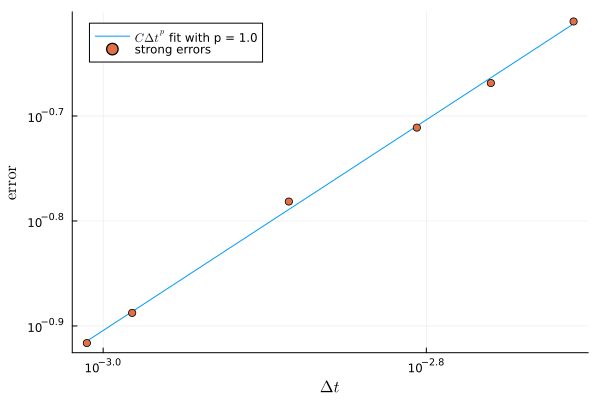
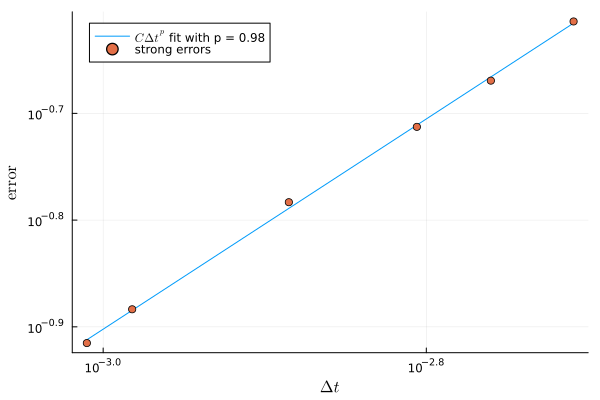
adjust parameters

diff --git a/docs/src/examples/09-fisherkpp.md b/docs/src/examples/09-fisherkpp.md
@@ -4,9 +4,9 @@ EditURL = "https://github.com/rmsrosa/rode_conv_em/docs/literate/examples/09-fis
 
 # Random Fisher-KPP partial differential equation
 
-Here we simulate a Fisher-KPP equation with random boundary conditions, as inspired by the works of [Salako & Shen (2020)](https://doi.org/10.1007/s10884-020-09847-2) and [Freidlin & Wentzell (1992)](https://doi.org/10.1214/aop/1176989813)). The first work addresses the Fisher-KPP equation with a random reaction coefficient, while the second work considers more general reaction-diffusion equations but driven by random boundary conditions. The deterministic Fisher-KPP equations has its origins in [Fisher (1937)](https://doi.org/10.1111/j.1469-1809.1937.tb02153.x) and [Kolmogorov, Petrovskii & Piscunov (1937)](https://www.bibsonomy.org/bibtex/23cfaf2cd2a49db658463fc5b115b3aa4/peter.ralph)
+Here we simulate a Fisher-KPP equation with random boundary conditions, as inspired by the works of [Salako & Shen (2020)](https://doi.org/10.1007/s10884-020-09847-2) and [Freidlin & Wentzell (1992)](https://doi.org/10.1214/aop/1176989813). The first work addresses the Fisher-KPP equation with a random reaction coefficient, while the second work considers more general reaction-diffusion equations but driven by random boundary conditions. The deterministic Fisher-KPP equations has its origins in [Fisher (1937)](https://doi.org/10.1111/j.1469-1809.1937.tb02153.x) and [Kolmogorov, Petrovskii & Piscunov (1937)](https://www.bibsonomy.org/bibtex/23cfaf2cd2a49db658463fc5b115b3aa4/peter.ralph)
 
-Here, we consider the Fisher-KPP equation driven by Neumann boundary conditions, with a random influx on the left end point and no flux on the right end point. The intent here is to illustrate the strong order 1 convergence rate on a nonlinear partial differential equation.
+We consider the Fisher-KPP equation driven by Neumann boundary conditions, with a random influx on the left end point and no flux on the right end point. The intent here is to illustrate the strong order 1 convergence rate on a nonlinear partial differential equation.
 
 We use the method of lines (MOL), with finite differences in space, to approximate the random partial differential equation (PDE) by a system of random ODEs.
 
@@ -34,9 +34,9 @@ The unknown $u(t, x)$ represents the density of a given quantity at time $t$ and
 
 The random process $\{Y_t\}_t$ which drives the flux on the left boundary point, is taken to be a colored noise modulated by a exponentially decaying Hawkes process, representing random trains of incoming population.
 
-This equation displays traveling wave solutions with a minimum wave speed of $2 \sqrt{\lambda \mu}$. We choose $\lambda = 10$ and $μ= 0.009$, so the limit traveling speed is about $0.6$. The carrying capacity is set to $u_m = 1.0$.
+This equation displays traveling wave solutions with a minimum wave speed of $2 \sqrt{\lambda \mu}$. We choose $\lambda = 10$ and $\mu= 0.009$, so the limit traveling speed is about $0.6$. The carrying capacity is set to $u_m = 1.0$.
 
-The initial condition is taken to be zero, $u\_0(x) = 0$, so all the population originates from the left boundary influx.
+The initial condition is taken to be zero, $u_0(x) = 0$, so all the population originates from the left boundary influx.
 
 The mass within the region $0\leq x \leq 1$ satisfies
 
@@ -46,7 +46,7 @@ The mass within the region $0\leq x \leq 1$ satisfies
 
 Using the boundary conditions, we find that
 ```math
-  \frac{\mathrm{d}}{\mathrm{d} t} \int_0^1 u(t, x) \;\mathrm{d}x = μY_t  + \frac{\lambda}{u_m} \int_0^1 u(t, x)\left(u_m - u(t, x)\right)\;\mathrm{d}x,
+  \frac{\mathrm{d}}{\mathrm{d} t} \int_0^1 u(t, x) \;\mathrm{d}x = \mu Y_t  + \frac{\lambda}{u_m} \int_0^1 u(t, x)\left(u_m - u(t, x)\right)\;\mathrm{d}x,
 ```
 which is nonnegative, provided $0 \leq u \leq u_m$ and $Y_t \geq 0$.
 
@@ -80,7 +80,7 @@ t0, tf = 0.0, 2.0
 The discretization in space is made with `l` mesh points $x_j = (j-1) / (l-1)$, for $j = 1, \ldots, l$, corresponding to `l-1` mesh intervals of length $\Delta x = 1 / (l-1)$. The points $x_1 = 0$ and $x_l = 1$ are the boundary points. We set `l` to
 
 ````@example 09-fisherkpp
-l = 16
+l = 17
 ````
 
 Notice that for the target solution we need a very fine *time* mesh, on top of having to repeat the simulation a number of times for the Monte-Carlo estimate. This is computationally demanding for large `l`, so we choose a moderate number just for illustration purpose.
@@ -277,6 +277,8 @@ Now we set up the mesh parameters. For stability reasons, we can't allow the tim
 ````@example 09-fisherkpp
 ntgt = 2^15 * 3^3 * 5
 ns = [2^10, 2^7 * 3^2, 2^8 * 5, 2^9 * 3, 2^7 * 3 * 5, 2^11]
+ks = [2, 2, 2, 2, 2, 2]
+ks = one.(ns)
 nothing # hide
 ````
 
@@ -314,7 +316,7 @@ method = RandomEuler(length(u0law))
 With all the parameters set up, we build the convergence suite:
 
 ````@example 09-fisherkpp
-suite = ConvergenceSuite(t0, tf, u0law, f!, noise, target, method, ntgt, ns, m)
+suite = ConvergenceSuite(t0, tf, u0law, f!, noise, target, method, ntgt, ns, m, ks)
 ````
 
 Then we are ready to compute the errors:

diff --git a/docs/src/examples/07-toggle_switch_model.md b/docs/src/examples/07-toggle_switch_model.md
@@ -4,7 +4,7 @@ EditURL = "https://github.com/rmsrosa/rode_conv_em/docs/literate/examples/07-tog
 
 # A toggle-switch model for gene expression with compound Poisson external activation process
 
-Here, we consider the toggle-switch model in Section 7.8 of [Asai (2016)](https://publikationen.ub.uni-frankfurt.de/frontdoor/index/index/docId/40146), originated from [Verd, Crombach & Jaeger (2014)](https://bmcsystbiol.biomedcentral.com/articles/10.1186/1752-0509-8-43). See also [Strasser, Theis & Marr (2012)](https://doi.org/10.1016/j.bpj.2011.11.4000).
+Here, we consider the toggle-switch model in Section 7.8 of [Asai (2016)](https://publikationen.ub.uni-frankfurt.de/frontdoor/index/index/docId/40146), originated from [Verd, Crombach & Jaeger (2014)](https://doi.org/10.1186/1752-0509-8-43). See also [Strasser, Theis & Marr (2012)](https://doi.org/10.1016/j.bpj.2011.11.4000).
 
 Toogle switches in gene expression consist of genes that mutually repress each other and exhibit two stable steady states of ON and OFF gene expression. It is a regulatory mechanism which is active during cell differentiation and is believed to act as a memory device, able to choose and maintain cell fate decisions.
 
